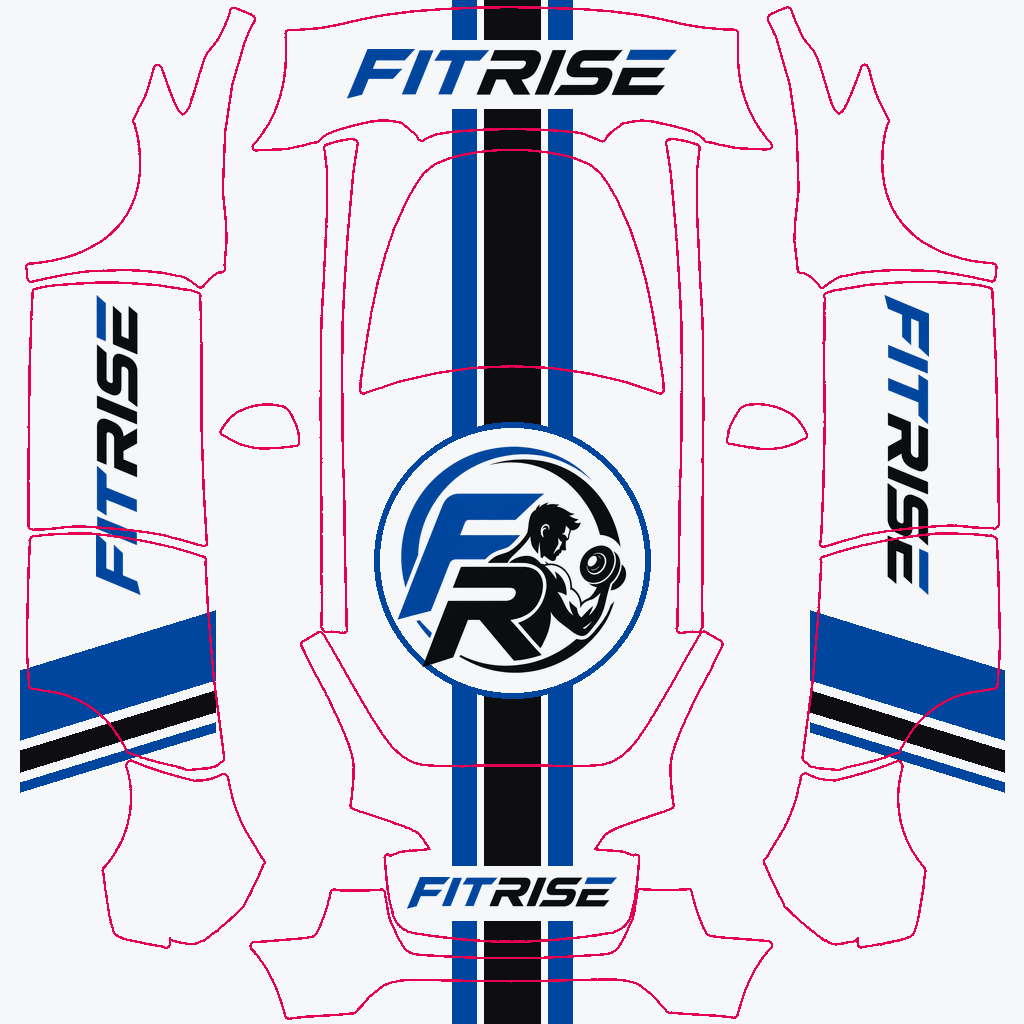
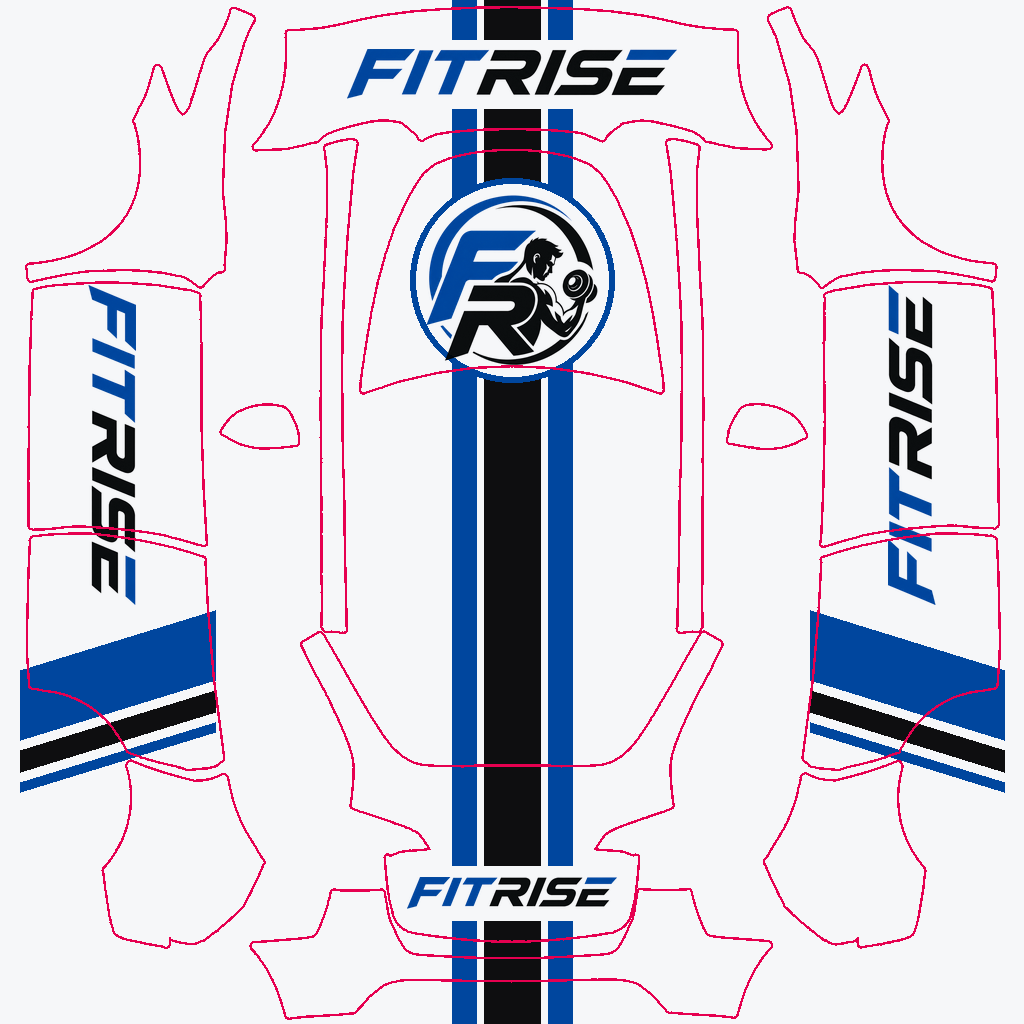
Fit FitRise wrap to the Model Y panel layout
Move the emblem from the (unwrapped) glass roof onto the hood and flip
the side wordmarks so their tops face the roofline, matching Tesla's
official Model Y examples.

Claude-Session: https://claude.ai/code/session_01RsaAftZXX9Y2z2QM1qjhBa

diff --git a/wraps/fitrise/generate.py b/wraps/fitrise/generate.py
@@ -1,4 +1,4 @@
-"""Generate a Tesla Toybox custom wrap (1024x1024 PNG) with the FitRise logo.
+"""Generate a Tesla Model Y (2020-2024) Toybox custom wrap (1024x1024 PNG) with the FitRise logo.
 
 Usage:  python3 wraps/fitrise/generate.py
 Reads logo.png (FitRise logo on a white background) and template.png
@@ -70,18 +70,25 @@ def main():
                 pts = [(x0, y), (x1, y + 60), (x1, y + h + 60), (x0, y + h)]
             d.polygon(pts, fill=col)
 
+    # Panel map (Model Y, 2020-2024 template): front of the car is the top of
+    # the image. Front bumper y~5-150, hood y~150-390, glass roof in the
+    # middle (not wrapped), liftgate below it, rear bumper at the bottom.
+    # Side panels: the roof edge faces the middle of the template.
+
     # White plates break the stripes so the logos sit on clean ground
-    d.ellipse([512 - 138, 560 - 138, 512 + 138, 560 + 138], fill=BODY, outline=BLUE, width=6)
+    d.ellipse([512 - 102, 280 - 102, 512 + 102, 280 + 102], fill=BODY, outline=BLUE, width=6)
     d.rectangle([330, 40, 694, 108], fill=BODY)
     d.rectangle([395, 866, 629, 920], fill=BODY)
 
-    # Emblem on the roof/hood, wordmark on bumpers and both sides
-    paste(c, fit(emblem, width=230), 512, 560)
+    # Emblem on the hood, wordmark on front bumper, liftgate and both sides
+    paste(c, fit(emblem, width=172), 512, 280)
     paste(c, fit(wordmark, width=330), 512, 74)
     paste(c, fit(wordmark, width=210), 512, 893)
-    side = fit(wordmark, width=300)
-    paste(c, side.rotate(90, expand=True), 118, 445)
-    paste(c, side.rotate(-90, expand=True), 906, 445)
+    side = fit(wordmark, width=320)
+    # Letter tops toward the roof edge: left side reads front-to-rear,
+    # right side reads rear-to-front (both read left-to-right from outside).
+    paste(c, side.rotate(-90, expand=True), 112, 445)
+    paste(c, side.rotate(90, expand=True), 912, 445)
 
     out = c.convert("RGB")
     out.save(HERE / "FitRise.png", optimize=True)

diff --git a/wraps/fitrise/README.md b/wraps/fitrise/README.md
@@ -1,6 +1,6 @@
 # FitRise Tesla wrap
 
-`FitRise.png` is a Tesla Toybox custom wrap (1024×1024 PNG, under 1 MB).
+`FitRise.png` is a Tesla Toybox custom wrap for the **Model Y (2020–2024)**, built on Tesla's official `modely` template (1024×1024 PNG, under 1 MB). The 2025+ Model Y uses a different panel layout and needs its own version.
 
 ## Install on the car
 1. Format a USB drive as exFAT, FAT32 or MS-DOS FAT.
